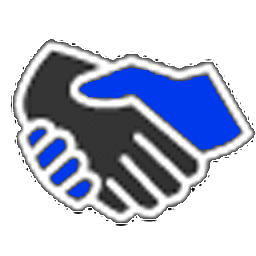
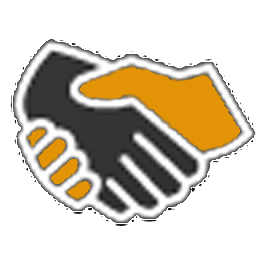
Tooltip gerente instalados.

Changed region(s): [[0.3125, 0.25, 0.9375, 0.5938], [0.125, 0.5312, 0.375, 0.7812], [0.0938, 0.5, 0.1875, 0.5625]]

diff --git a/src/vista/gerente/gerente.css b/src/vista/gerente/gerente.css
@@ -12,7 +12,7 @@
 }
 
 #bt_home{
-    -fx-background-image: url(/vista/gerente/images/inicio.png);
+    -fx-background-image: url(/vista/gerente/images/inicio2.png);
     -fx-background-size: cover;
     -fx-border-color: transparent;
     -fx-background-color: transparent;
@@ -35,7 +35,7 @@
     -fx-background-color: transparent;    
 }
 
-#bt_productos, #bt_incidencias, #bt_tiendas, #bt_personal, #bt_contratarPersonal, 
+#bt_productos, #bt_incidencias, #bt_tienda, #bt_personal, #bt_contratarPersonal, 
 #bt_despedirPersonal, #bt_atras{
     -fx-background-insets:0;
     -fx-effect: dropshadow( three-pass-box , rgba(0,0,0,0.5) , 0, 0 , 5, 5);
@@ -70,7 +70,7 @@
     -fx-background-image: url(/vista/gerente/images/atras.jpg);
 }
 
-#bt_productos:pressed, #bt_incidencias:pressed, #bt_tiendas:pressed, 
+#bt_productos:pressed, #bt_incidencias:pressed, #bt_tienda:pressed, 
 #bt_personal:pressed, #bt_contratarPersonal:pressed, #bt_despedirPersonal:pressed,
 #bt_atras:pressed{
    -fx-translate-x: 5;
@@ -78,7 +78,7 @@
    -fx-effect: dropshadow( three-pass-box , rgba(0,0,0,0.5) , 0, 0 , 0, 0);
 }
 
-#bt_productos:hover, #bt_incidencias:hover, #bt_tiendas:hover, 
+#bt_productos:hover, #bt_incidencias:hover, #bt_tienda:hover, 
 #bt_personal:hover, #bt_contratarPersonal:hover, #bt_despedirPersonal:hover,
 #bt_atras:hover{
    -fx-border-color: white;

diff --git a/src/vista/Empleado/empleado.css b/src/vista/Empleado/empleado.css
@@ -12,7 +12,7 @@
 }
 
 #bt_Inicio{
-    -fx-background-image: url(/vista/Empleado/Images/inicio.png);
+    -fx-background-image: url(/vista/Empleado/Images/inicio2.png);
     -fx-background-size: cover;
     -fx-border-color: transparent;
     -fx-background-color: transparent;

diff --git a/src/vista/gerente/GerenteController.java b/src/vista/gerente/GerenteController.java
@@ -11,6 +11,8 @@ import javafx.fxml.FXMLLoader;
 import javafx.fxml.Initializable;
 import javafx.scene.control.Button;
 import javafx.scene.control.Tooltip;
+import javafx.scene.image.Image;
+import javafx.scene.image.ImageView;
 import javafx.scene.layout.AnchorPane;
 import javafx.scene.layout.Pane;
 import vista.Empleado.EmpleadoController;
@@ -55,21 +57,59 @@ public class GerenteController implements Initializable {
         pn_personal.setVisible(false);
         cargarTooltips();
     }
-    
-    public void cargarTooltips(){
+
+    public void cargarTooltips() {
+        Tooltip tt_personal, tt_contratar, tt_despedir, tt_atras, tt_incidencias
+                ,tt_productos, tt_tienda;
+
+//        Image image = new Image("/vista/gerente/images/inicio2.png");
+//        ImageView imageView = new ImageView(image);
+//        Tooltip tooltip = new Tooltip();
+//        tooltip.setGraphic(imageView);
+//        bt_personal.setTooltip(tooltip);
+        
+        tt_incidencias = new Tooltip("Incidencias");
+       tt_incidencias.setStyle("-fx-background-color:hsl(0, 0%, 40%);"
+               + " -fx-text-fill:white; -fx-font-size:16px;");
+       Tooltip.install(bt_incidencias, tt_incidencias);
+       
+        tt_productos = new Tooltip("Productos");
+       tt_productos.setStyle("-fx-background-color:hsl(0, 0%, 40%);"
+               + " -fx-text-fill:white; -fx-font-size:16px;");
+       Tooltip.install(bt_productos, tt_productos);
+       
+        tt_tienda = new Tooltip("Tienda");
+       tt_tienda.setStyle("-fx-background-color:hsl(0, 0%, 40%);"
+               + " -fx-text-fill:white; -fx-font-size:16px;");
+       Tooltip.install(bt_tienda, tt_tienda);
+
+       tt_contratar = new Tooltip("Contratar trabajador");
+       tt_contratar.setStyle("-fx-background-color:hsl(0, 0%, 40%);"
+               + " -fx-text-fill:white; -fx-font-size:16px;");
+       Tooltip.install(bt_contratarPersonal, tt_contratar);
+       
+       tt_despedir = new Tooltip("Despedir trabajador");
+       tt_despedir.setStyle("-fx-background-color:hsl(0, 0%, 40%);"
+               + " -fx-text-fill:white; -fx-font-size:16px;");
+       Tooltip.install(bt_despedirPersonal, tt_despedir);
+       
+       tt_atras = new Tooltip("Volver");
+       tt_atras.setStyle("-fx-background-color:hsl(0, 0%, 40%);"
+               + " -fx-text-fill:white; -fx-font-size:16px;");
+       Tooltip.install(bt_atras, tt_atras);
         
     }
 
     @FXML
     private void trabajadoresAction(ActionEvent event) {
 
-        if (bt_personal.isFocused()) {            
-            pn_inicio.setVisible(false);            
+        if (bt_personal.isFocused()) {
+            pn_inicio.setVisible(false);
             pn_personal.setVisible(true);
         }
-        
-        if(bt_atras.isFocused()){            
-            pn_inicio.setVisible(true);            
+
+        if (bt_atras.isFocused()) {
+            pn_inicio.setVisible(true);
             pn_personal.setVisible(false);
         }
 
